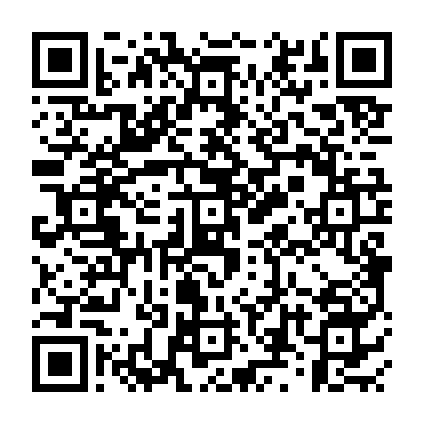
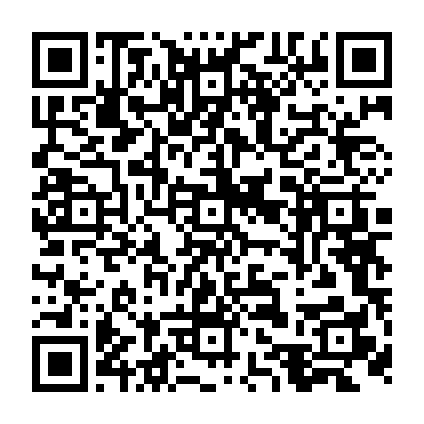
docs: Add README for the SM4 dynamic QR code generator and update the example QR image.

Changed region(s): [[0.0613, 0.0613, 0.9505, 0.9505]]

diff --git a/README.md b/README.md
@@ -1,0 +1,53 @@
+# SM4 Dynamic QR Code Generator
+
+A Rust-based utility for generating dynamic QR codes encrypted with the **SM4** (Chinese national standard) block cipher. This project demonstrates how to create a secure, time-sensitive QR code payload suitable for access control, payments, or authentication.
+
+## Features
+
+- **SM4-CBC Encryption**: Uses the SM4 block cipher in Cipher Block Chaining (CBC) mode with PKCS7 padding for secure data encryption.
+- **Dynamic Payload**: Generates a JSON payload containing:
+  - `uid`: User identifier.
+  - `ts`: Unix timestamp (to prevent replay attacks).
+  - `nonce`: A random 6-character alphanumeric string for uniqueness.
+- **Random IV**: Each encryption uses a fresh, random Initialization Vector (IV).
+- **Base64 Encoding**: The final QR content is a Base64-encoded string combining the IV and the encrypted payload.
+- **QR Code Generation**: Automatically generates a PNG image of the QR code.
+- **Verification Logic**: Includes built-in decryption and validation logic to ensure data integrity.
+
+## Prerequisites
+
+- [Rust](https://www.rust-lang.org/tools/install) (latest stable version)
+- `cargo` (included with Rust)
+
+## Dependencies
+
+The project relies on several key Rust crates:
+- `sm4`: Implementation of the SM4 block cipher.
+- `cbc`: CBC mode of operation.
+- `qrcode`: For QR code generation logic.
+- `image`: To save the QR code as a PNG file.
+- `serde` & `serde_json`: For JSON serialization/deserialization.
+- `rand`: For generating random IVs and nonces.
+
+## Usage
+
+To run the demonstration and generate a sample QR code:
+
+```bash
+cargo run
+```
+
+This will:
+1. Create a dynamic payload for a sample user.
+2. Encrypt the payload using SM4-CBC with a hardcoded test key (`0123456789ABCDEF`).
+3. Save the resulting QR code as `dynamic_sm4_qr.png` in the project root.
+4. Perform a validation step by decrypting the generated content and comparing it with the original data.
+
+## Configuration
+
+> [!IMPORTANT]
+> For production use, never hardcode the encryption key. The 128-bit (16-byte) key should be loaded from a secure environment variable or a secrets management vault.
+
+## License
+
+This project is licensed under the MIT License.
